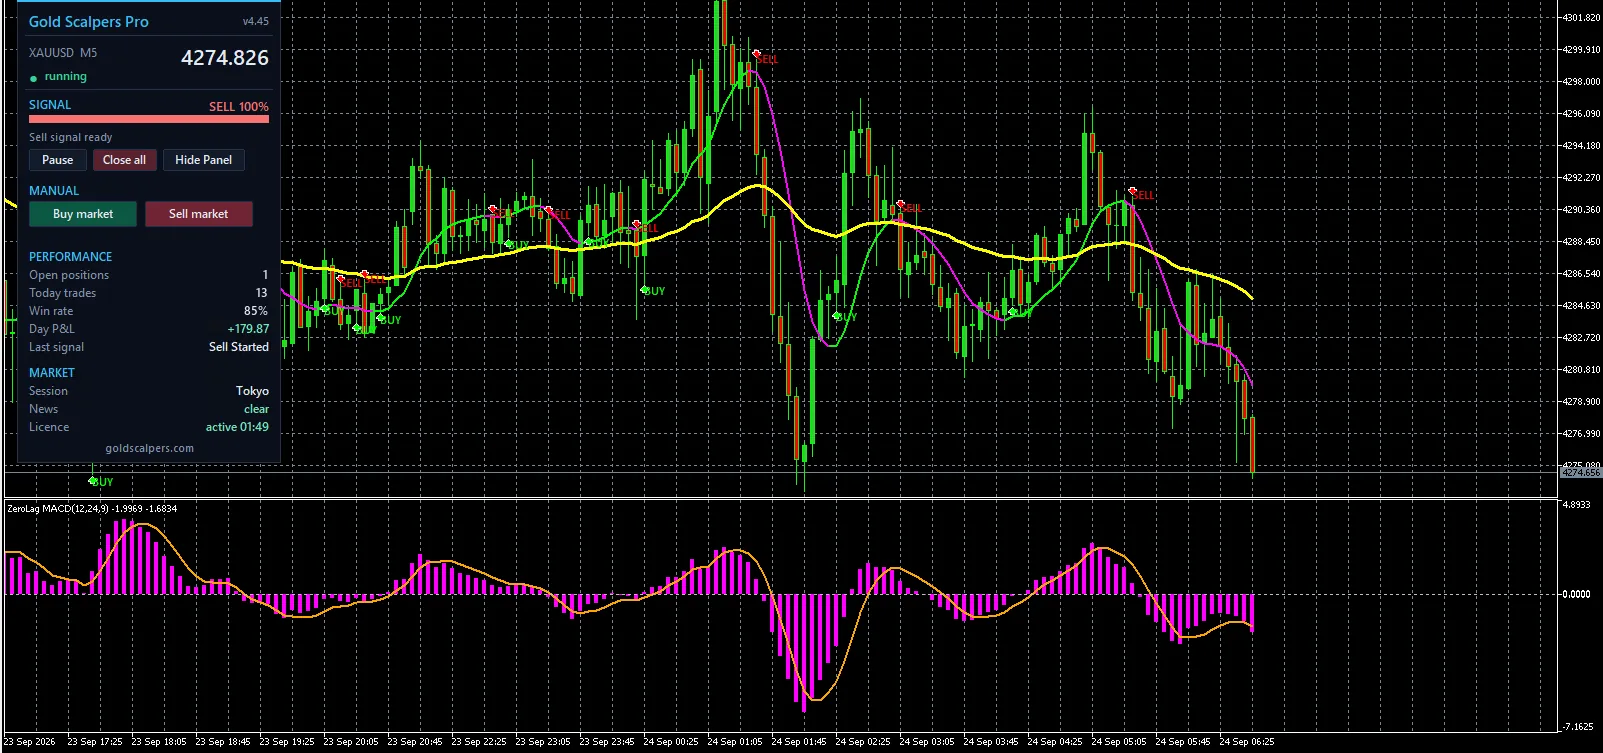
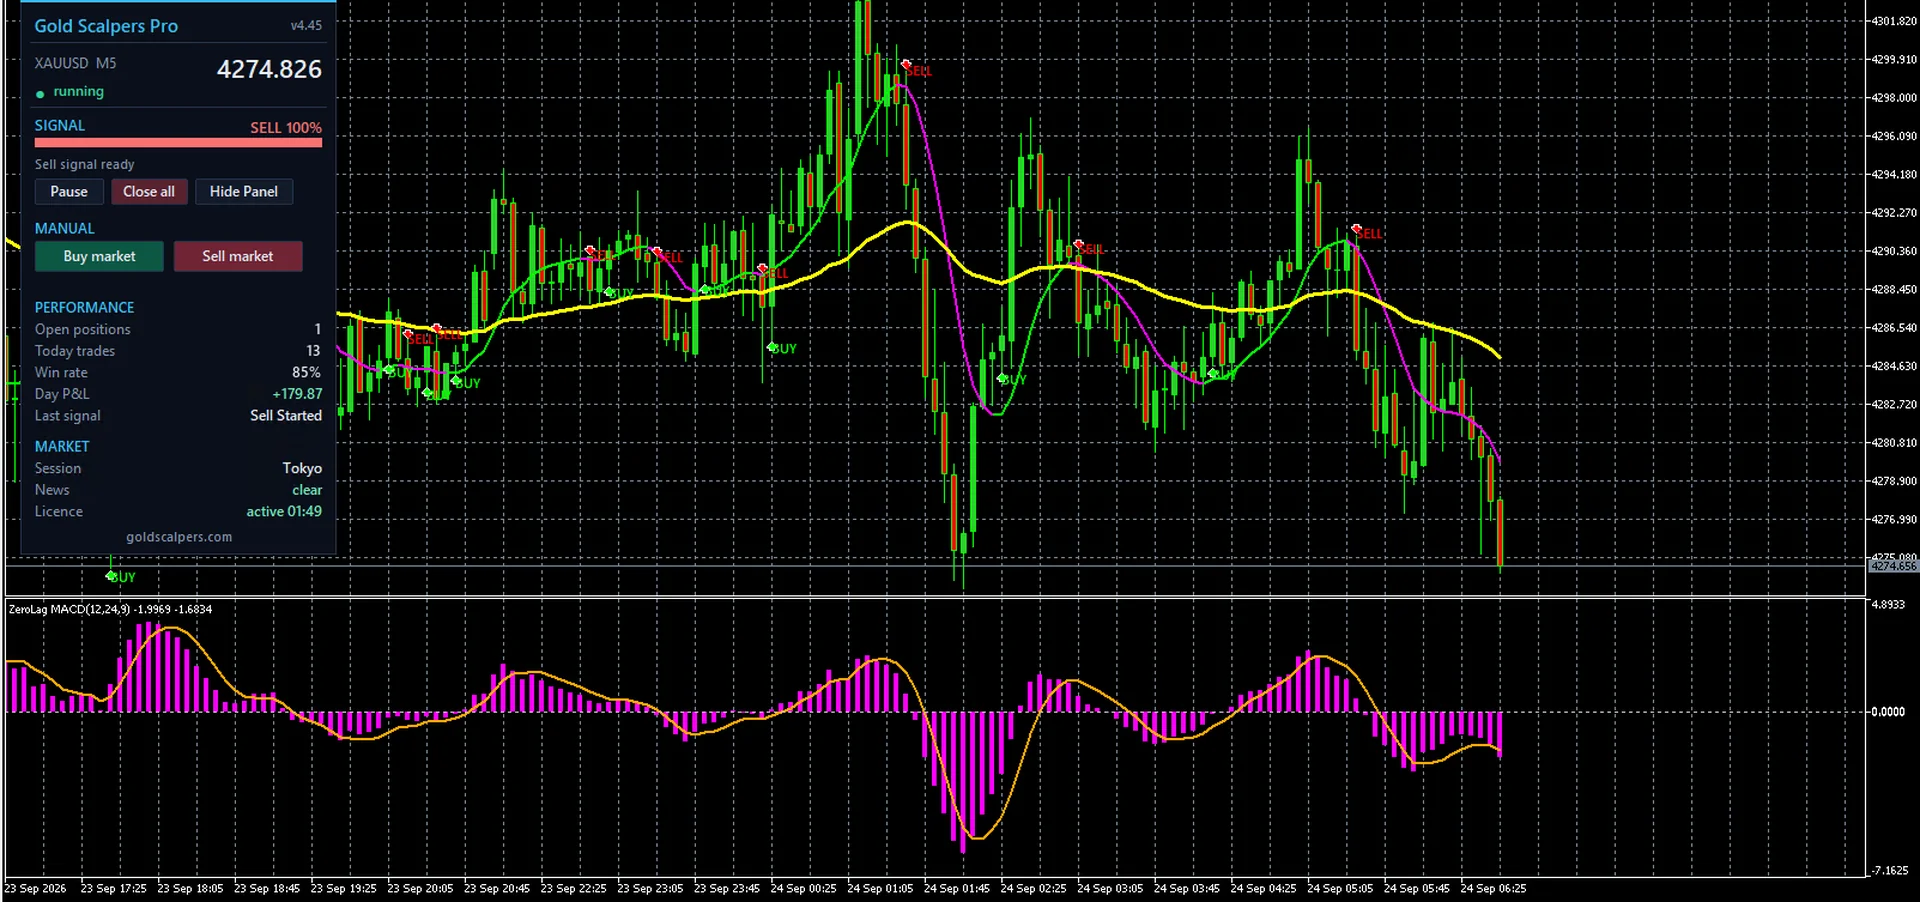
Re-cut the hero close-up; all screenshots at full HD
The hero read as a dark blue slab. Cause was framing, not colour: the whole
1603px capture was squeezed into the hero box, so at the card's real width
(~660 CSS px) the dashboard panel was 17% of the frame and its text landed at
about 4px on screen - nothing legible, just a large navy rectangle. The hero
this replaced had the panel at roughly a third of the frame.

The hero is now cropped to match: panel plus price action, cut just above the
MACD sub-window, 836x470 at 16:9 with the panel at 32% of the width. Price,
signal meter, the three PERFORMANCE rows and the buttons all read at card size.

Resolution now matches what was there before. Hero is 1920x1080 (was 1920x1080
before this week, then briefly 1339x753 when I chose native resolution over an
upscale). Gallery lightbox images go to 1920px wide, up from 1440x900
originally. Thumbs stay 768x480, the 16:10 the CSS asks for. WebP q84.

Initial page weight is unchanged within a few KB - the lightbox images are only
fetched on click, and the hero is about the same size it was.

diff --git a/index.html b/index.html
@@ -798,7 +798,7 @@ h2.section-title{font-size:2.2rem;font-weight:800;line-height:1.2;letter-spacing
         </span>
       </div>
       <div class="hero-chart-video">
-        <img src="/assets/hero-live.webp?v=4" alt="Gold Scalpers Pro dashboard on a XAUUSD M5 chart — a 100% SELL signal on the meter, one open position, 13 trades on the day at an 85% win rate and +179.87 day P&amp;L, with BUY and SELL labels on the bars that triggered" width="1339" height="753" fetchpriority="high" decoding="async" style="position:absolute;inset:0;width:100%;height:100%;object-fit:cover;object-position:left top;display:block">
+        <img src="/assets/hero-live.webp?v=5" alt="Gold Scalpers Pro dashboard on a XAUUSD M5 chart — a 100% SELL signal on the meter, one open position, 13 trades on the day at an 85% win rate and +179.87 day P&amp;L, with BUY and SELL labels on the bars that triggered" width="1920" height="1080" fetchpriority="high" decoding="async" style="position:absolute;inset:0;width:100%;height:100%;object-fit:cover;object-position:left top;display:block">
       </div>
       <div style="padding:.55rem .85rem;background:#0F1422;border-top:1px solid #1F2937;display:flex;gap:.5rem;align-items:center;flex-wrap:wrap">
         <span style="font-size:.72rem;font-weight:700;color:#F59E0B;letter-spacing:.04em">EA DASHBOARD</span>
@@ -867,7 +867,7 @@ h2.section-title{font-size:2.2rem;font-weight:800;line-height:1.2;letter-spacing
     <div class="ea-gallery" id="eaGallery">
       <figure class="ea-shot">
         <button type="button" class="ea-thumb" aria-label="Enlarge screenshot: Live signals & alerts">
-          <img src="assets/display/signals-thumb.webp?v=4" data-full="assets/display/signals.webp?v=4" width="768" height="480" alt="Gold Scalpers Pro on XAUUSD M5 with the MetaTrader 5 alert pop-up open, listing start-up colour turns and a ready-to-trade alert, while the dashboard shows a 100% SELL signal, one open position and the day's trade count, win rate and P&amp;L" loading="lazy" decoding="async">
+          <img src="assets/display/signals-thumb.webp?v=5" data-full="assets/display/signals.webp?v=5" width="768" height="480" alt="Gold Scalpers Pro on XAUUSD M5 with the MetaTrader 5 alert pop-up open, listing start-up colour turns and a ready-to-trade alert, while the dashboard shows a 100% SELL signal, one open position and the day's trade count, win rate and P&amp;L" loading="lazy" decoding="async">
           <span class="ea-zoom" aria-hidden="true">
             <svg viewBox="0 0 24 24" fill="none" stroke="currentColor" stroke-width="2" stroke-linecap="round" stroke-linejoin="round"><circle cx="11" cy="11" r="7"/><line x1="21" y1="21" x2="16.65" y2="16.65"/><line x1="11" y1="8" x2="11" y2="14"/><line x1="8" y1="11" x2="14" y2="11"/></svg>
           <span class="ea-zoom-txt">Click or tap to view full system</span>
@@ -877,7 +877,7 @@ h2.section-title{font-size:2.2rem;font-weight:800;line-height:1.2;letter-spacing
       </figure>
       <figure class="ea-shot">
         <button type="button" class="ea-thumb" aria-label="Enlarge screenshot: Trade in progress">
-          <img src="assets/display/picksignal-thumb.webp?v=4" data-full="assets/display/picksignal.webp?v=4" width="768" height="480" alt="Gold Scalpers Pro managing an open position on XAUUSD M5 — the Slope Direction Line, the yellow 50 EMA and the ZeroLag MACD pane, BUY and SELL labels on the bars that triggered, and a dashboard showing 1 open position, 13 trades today, an 85% win rate and +179.87 running day P&amp;L" loading="lazy" decoding="async">
+          <img src="assets/display/picksignal-thumb.webp?v=5" data-full="assets/display/picksignal.webp?v=5" width="768" height="480" alt="Gold Scalpers Pro managing an open position on XAUUSD M5 — the Slope Direction Line, the yellow 50 EMA and the ZeroLag MACD pane, BUY and SELL labels on the bars that triggered, and a dashboard showing 1 open position, 13 trades today, an 85% win rate and +179.87 running day P&amp;L" loading="lazy" decoding="async">
           <span class="ea-zoom" aria-hidden="true">
             <svg viewBox="0 0 24 24" fill="none" stroke="currentColor" stroke-width="2" stroke-linecap="round" stroke-linejoin="round"><circle cx="11" cy="11" r="7"/><line x1="21" y1="21" x2="16.65" y2="16.65"/><line x1="11" y1="8" x2="11" y2="14"/><line x1="8" y1="11" x2="14" y2="11"/></svg>
           <span class="ea-zoom-txt">Click or tap to view full system</span>
@@ -887,7 +887,7 @@ h2.section-title{font-size:2.2rem;font-weight:800;line-height:1.2;letter-spacing
       </figure>
       <figure class="ea-shot">
         <button type="button" class="ea-thumb" aria-label="Enlarge screenshot: Full control">
-          <img src="assets/display/2-thumb.webp?v=4" data-full="assets/display/2.webp?v=4" width="768" height="480" alt="Gold Scalpers Pro Inputs panel in MetaTrader 5 showing the shipped defaults — the one-click strategy preset, the colour-signal group, the colour trade's own stop and take profit, and the main trade switches — over the live XAUUSD M5 chart" loading="lazy" decoding="async">
+          <img src="assets/display/2-thumb.webp?v=5" data-full="assets/display/2.webp?v=5" width="768" height="480" alt="Gold Scalpers Pro Inputs panel in MetaTrader 5 showing the shipped defaults — the one-click strategy preset, the colour-signal group, the colour trade's own stop and take profit, and the main trade switches — over the live XAUUSD M5 chart" loading="lazy" decoding="async">
           <span class="ea-zoom" aria-hidden="true">
             <svg viewBox="0 0 24 24" fill="none" stroke="currentColor" stroke-width="2" stroke-linecap="round" stroke-linejoin="round"><circle cx="11" cy="11" r="7"/><line x1="21" y1="21" x2="16.65" y2="16.65"/><line x1="11" y1="8" x2="11" y2="14"/><line x1="8" y1="11" x2="14" y2="11"/></svg>
           <span class="ea-zoom-txt">Click or tap to view full system</span>
